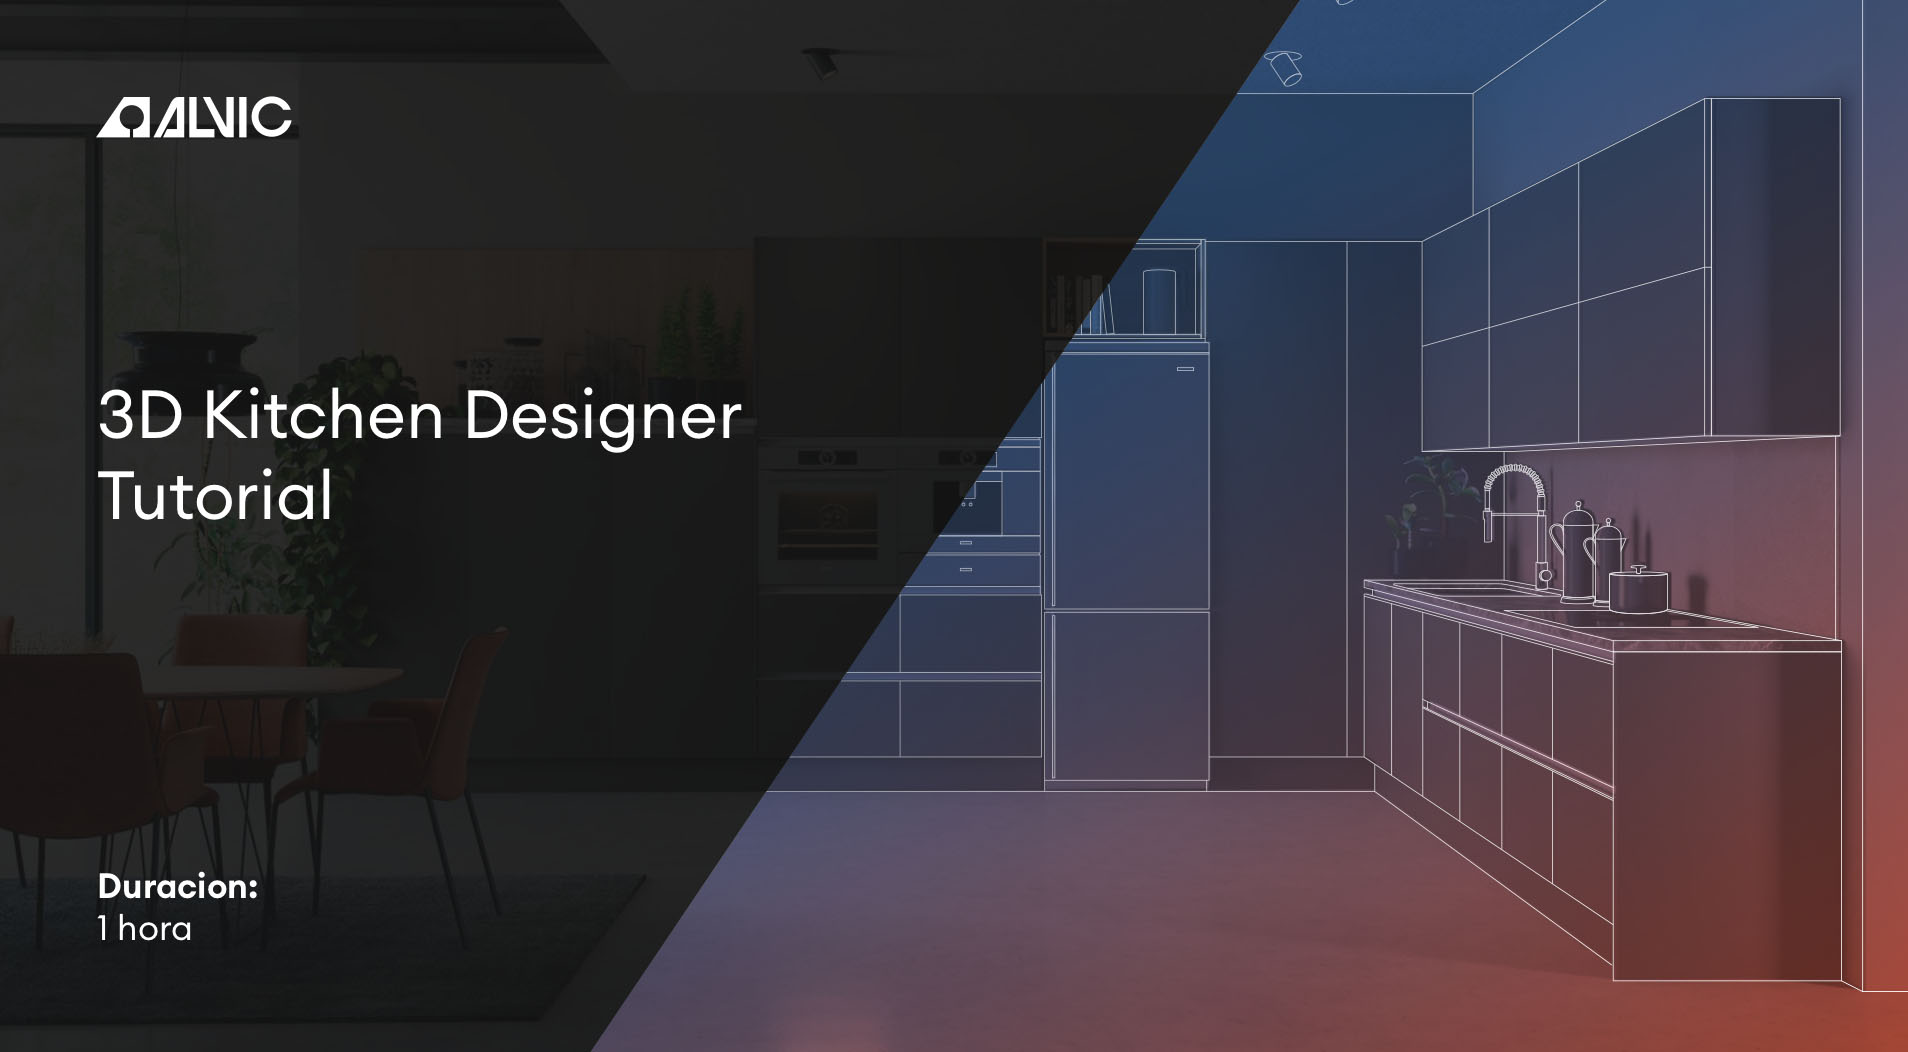
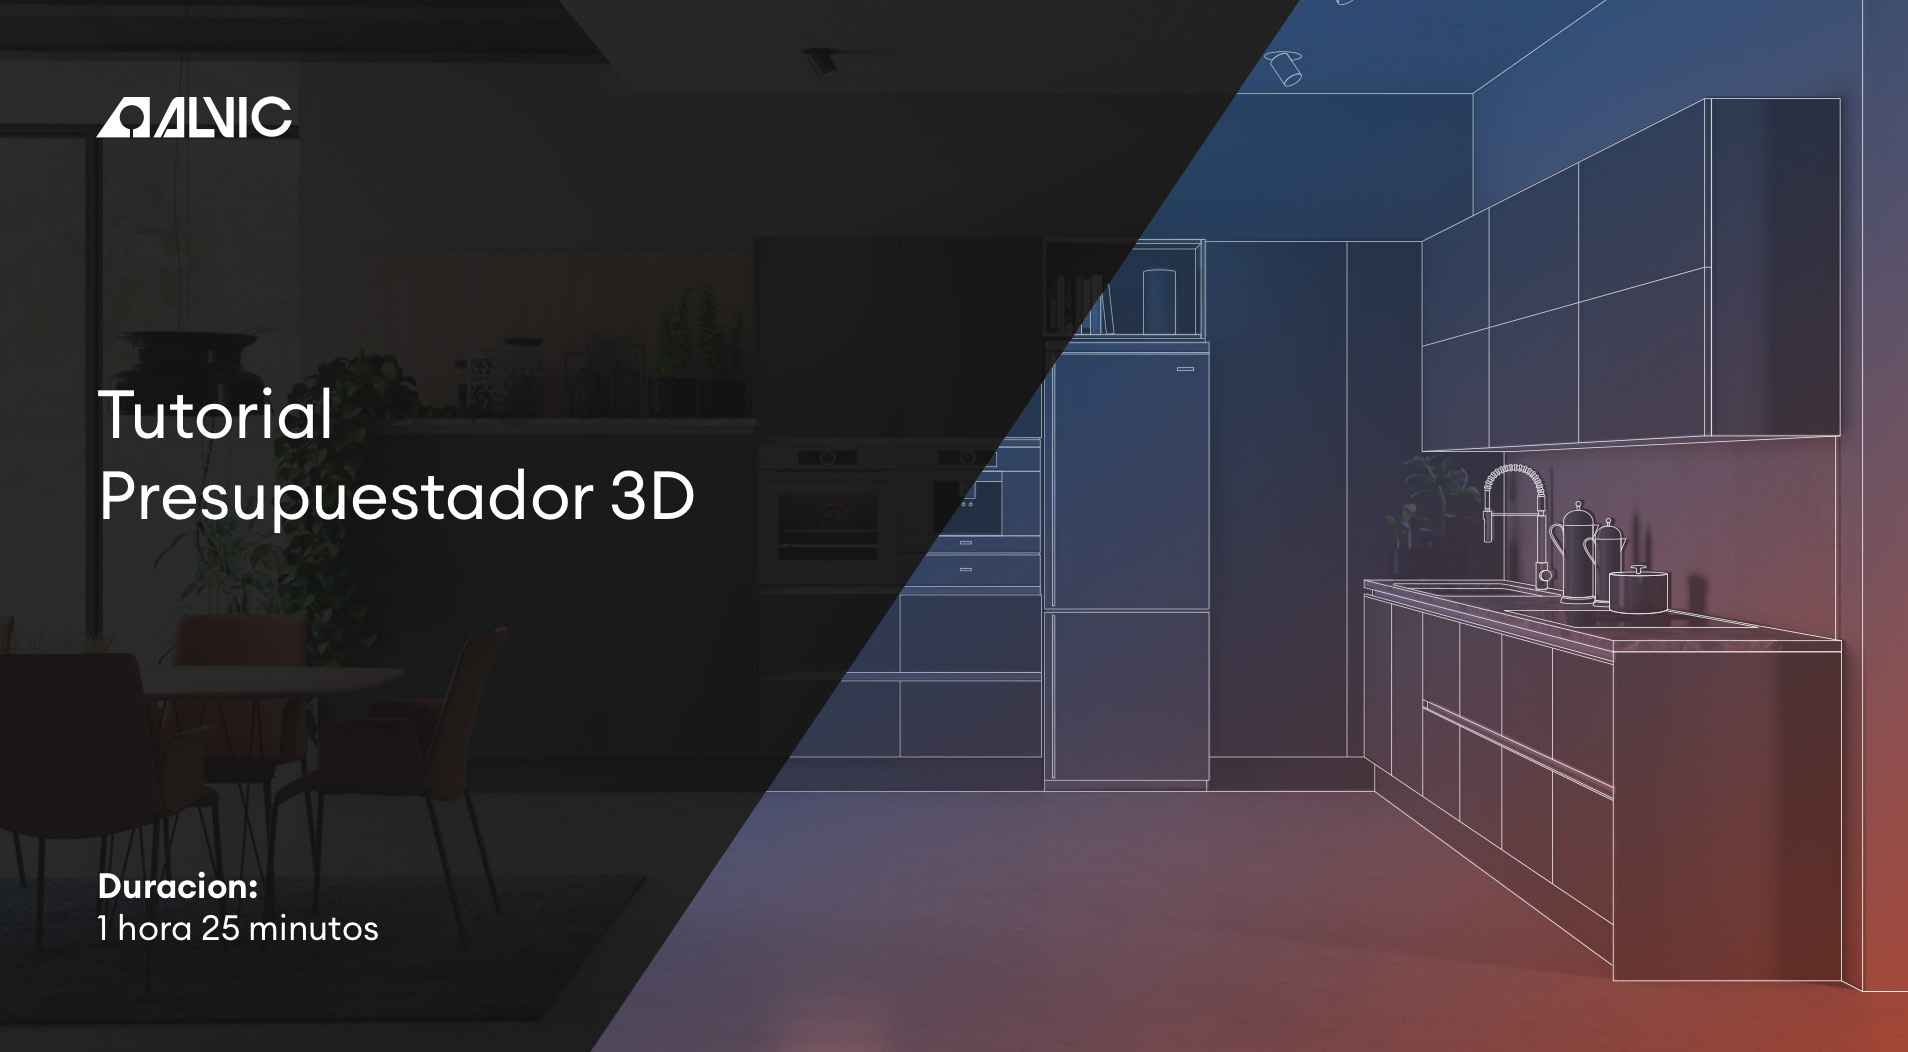
Added final video

Changed region(s): [[0.0309, 0.365, 0.402, 0.5171], [0.0928, 0.8517, 0.1855, 0.9125]]

diff --git a/video-tutorial.html b/video-tutorial.html
@@ -7,7 +7,7 @@
 		<link rel="stylesheet" href="stylesheets/video-tutorial.css" type="text/css" media="screen" />
 		<link rel="stylesheet" href="https://cdn.jsdelivr.net/npm/bootstrap-icons@1.10.2/font/bootstrap-icons.css">
 
-		<title>Tutorial Introduccion Alvic 3D Studio</title>
+		<title>Tutorial Presupuestador 3D</title>
 
 	</head>
 
@@ -16,8 +16,8 @@
 		<div class="container-fluid p-4">
 			<div class="row gx-5">
 				<div class="col-lg-9 col-main">
-					<h2>Tutorial Introduccion Alvic 3D Studio</h2>
-					<script src="https://fast.wistia.com/embed/medias/wckjeswefg.jsonp" async></script><script src="https://fast.wistia.com/assets/external/E-v1.js" async></script><div class="wistia_responsive_padding" style="padding:48.75% 0 0 0;position:relative;"><div class="wistia_responsive_wrapper" style="height:100%;left:0;position:absolute;top:0;width:100%;"><div class="wistia_embed wistia_async_wckjeswefg videoFoam=true" style="height:100%;position:relative;width:100%"><div class="wistia_swatch" style="height:100%;left:0;opacity:0;overflow:hidden;position:absolute;top:0;transition:opacity 200ms;width:100%;"><img src="https://fast.wistia.com/embed/medias/wckjeswefg/swatch" style="filter:blur(5px);height:100%;object-fit:contain;width:100%;" alt="" aria-hidden="true" onload="this.parentNode.style.opacity=1;" /></div></div></div></div>
+					<h2>Tutorial Presupuestador 3D</h2>
+					<script src="https://fast.wistia.com/embed/medias/xnx9k290pf.jsonp" async></script><script src="https://fast.wistia.com/assets/external/E-v1.js" async></script><div class="wistia_responsive_padding" style="padding:55.0% 0 0 0;position:relative;"><div class="wistia_responsive_wrapper" style="height:100%;left:0;position:absolute;top:0;width:100%;"><div class="wistia_embed wistia_async_xnx9k290pf videoFoam=true" style="height:100%;position:relative;width:100%"><div class="wistia_swatch" style="height:100%;left:0;opacity:0;overflow:hidden;position:absolute;top:0;transition:opacity 200ms;width:100%;"><img src="https://fast.wistia.com/embed/medias/xnx9k290pf/swatch" style="filter:blur(5px);height:100%;object-fit:contain;width:100%;" alt="" aria-hidden="true" onload="this.parentNode.style.opacity=1;" /></div></div></div></div>
 					<br><br>
 				</div>
 				<div class="col-lg-3 col-indice">
@@ -26,61 +26,88 @@
 						<table class="table table-hover indice">
 							<tbody>
 								<tr id="chapter-1">
-									<td><a href="#wistia_wckjeswefg?time=10"><span>Configuracion inicial</span><span>0:05 <i class="bi bi-play-circle"></i></span></a></td>
+									<td><a href="#wistia_xnx9k290pf?time=0"><span>Configuración inicial</span><span>00:00 <i class="bi bi-play-circle"></i></span></a></td>
 								</tr>
 								<tr id="chapter-2">
-									<td><a href="#wistia_wckjeswefg?time=10"><span>Dibujar paredes</span><span>0:05 <i class="bi bi-play-circle"></i></span></a></td>
+									<td><a href="#wistia_xnx9k290pf?time=416"><span>Dibujar paredes</span><span>06:56 <i class="bi bi-play-circle"></i></span></a></td>
 								</tr>
-								<tr id="chapter-3" href="#wistia_wckjeswefg?time=20">
-									<td><a href="#wistia_wckjeswefg?time=10"><span>Manipular la vista 3D</span><span>0:05 <i class="bi bi-play-circle"></i></span></a></td>
+								<tr id="chapter-3">
+									<td><a href="#wistia_xnx9k290pf?time=531"><span>Manipular la vista 3D</span><span>08:51 <i class="bi bi-play-circle"></i></span></a></td>
 								</tr>
-								<tr>
-									<td><a href="#wistia_wckjeswefg?time=10"><span>Vistazo de las herramientas</span><span>0:05 <i class="bi bi-play-circle"></i></span></a></td>
+								<tr id="chapter-4">
+									<td><a href="#wistia_xnx9k290pf?time=622"><span>Vistazo de las herramientas</span><span>10:22 <i class="bi bi-play-circle"></i></span></a></td>
 								</tr>
-								<tr>
-									<td><a href="#wistia_wckjeswefg?time=10"><span>Propiedades de las paredes</span><span>0:05 <i class="bi bi-play-circle"></i></span></a></td>
+								<tr id="chapter-5">
+									<td><a href="#wistia_xnx9k290pf?time=752"><span>Propiedades de las paredes</span><span>12:32 <i class="bi bi-play-circle"></i></span></a></td>
 								</tr>
-								<tr id="chapter-1">
-									<td><a href="#wistia_wckjeswefg?time=10"><span>Vista de planta</span><span>0:05 <i class="bi bi-play-circle"></i></span></a></td>
+								<tr id="chapter-6">
+									<td><a href="#wistia_xnx9k290pf?time=878"><span>Vista de planta</span><span>14:38 <i class="bi bi-play-circle"></i></span></a></td>
 								</tr>
-								<tr id="chapter-2">
-									<td><a href="#wistia_wckjeswefg?time=10"><span>Capturar pantalla</span><span>0:05 <i class="bi bi-play-circle"></i></span></a></td>
+								<tr id="chapter-7">
+									<td><a href="#wistia_xnx9k290pf?time=987"><span>Capturar pantalla</span><span>16:27 <i class="bi bi-play-circle"></i></span></a></td>
 								</tr>
-								<tr id="chapter-3" href="#wistia_wckjeswefg?time=20">
-									<td><a href="#wistia_wckjeswefg?time=10"><span>Vista de alzado</span><span>0:05 <i class="bi bi-play-circle"></i></span></a></td>
+								<tr id="chapter-8">
+									<td><a href="#wistia_xnx9k290pf?time=1055"><span>Vista de alzado</span><span>17:35 <i class="bi bi-play-circle"></i></span></a></td>
 								</tr>
-								<tr>
-									<td><a href="#wistia_wckjeswefg?time=10"><span>Parametros generales</span><span>0:05 <i class="bi bi-play-circle"></i></span></a></td>
+								<tr id="chapter-9">
+									<td><a href="#wistia_xnx9k290pf?time=1296"><span>Parámetros generales</span><span>21:36 <i class="bi bi-play-circle"></i></span></a></td>
 								</tr>
-								<tr>
-									<td><a href="#wistia_wckjeswefg?time=10"><span>Agregar muebles</span><span>0:05 <i class="bi bi-play-circle"></i></span></a></td>
+								<tr id="chapter-10">
+									<td><a href="#wistia_xnx9k290pf?time=1496"><span>Agregar muebles</span><span>24:56 <i class="bi bi-play-circle"></i></span></a></td>
 								</tr>
-								<tr id="chapter-1">
-									<td><a href="#wistia_wckjeswefg?time=10"><span>Editar muebles</span><span>0:05 <i class="bi bi-play-circle"></i></span></a></td>
+								<tr id="chapter-11">
+									<td><a href="#wistia_xnx9k290pf?time=1679"><span>Editar muebles</span><span>27:59 <i class="bi bi-play-circle"></i></span></a></td>
 								</tr>
-								<tr id="chapter-2">
-									<td><a href="#wistia_wckjeswefg?time=10"><span>Bloquear muebles</span><span>0:05 <i class="bi bi-play-circle"></i></span></a></td>
+								<tr id="chapter-12">
+									<td><a href="#wistia_xnx9k290pf?time=1822"><span>Bloquear muebles</span><span>30:22 <i class="bi bi-play-circle"></i></span></a></td>
 								</tr>
-								<tr id="chapter-3" href="#wistia_wckjeswefg?time=20">
-									<td><a href="#wistia_wckjeswefg?time=10"><span>Duplicar muebles</span><span>0:05 <i class="bi bi-play-circle"></i></span></a></td>
+								<tr id="chapter-13">
+									<td><a href="#wistia_xnx9k290pf?time=1944"><span>Duplicar muebles</span><span>32:24 <i class="bi bi-play-circle"></i></span></a></td>
 								</tr>
-								<tr>
-									<td><a href="#wistia_wckjeswefg?time=10"><span>Cambiar mano puertas</span><span>0:05 <i class="bi bi-play-circle"></i></span></a></td>
+								<tr id="chapter-14">
+									<td><a href="#wistia_xnx9k290pf?time=1995"><span>Cambiar mano puertas</span><span>33:15 <i class="bi bi-play-circle"></i></span></a></td>
 								</tr>
-								<tr>
-									<td><a href="#wistia_wckjeswefg?time=10"><span>Alinear muebles</span><span>0:05 <i class="bi bi-play-circle"></i></span></a></td>
+								<tr id="chapter-15">
+									<td><a href="#wistia_xnx9k290pf?time=2095"><span>Alinear muebles</span><span>34:55 <i class="bi bi-play-circle"></i></span></a></td>
 								</tr>
-								<tr id="chapter-1">
-									<td><a href="#wistia_wckjeswefg?time=10"><span>Electrodomesticos</span><span>0:05 <i class="bi bi-play-circle"></i></span></a></td>
+								<tr id="chapter-16">
+									<td><a href="#wistia_xnx9k290pf?time=2283"><span>Electrodomésticos</span><span>38:03 <i class="bi bi-play-circle"></i></span></a></td>
 								</tr>
-								<tr id="chapter-2">
-									<td><a href="#wistia_wckjeswefg?time=10"><span>Accesorios</span><span>0:05 <i class="bi bi-play-circle"></i></span></a></td>
+								<tr id="chapter-17">
+									<td><a href="#wistia_xnx9k290pf?time=2622"><span>Accesorios</span><span>43:42 <i class="bi bi-play-circle"></i></span></a></td>
 								</tr>
-								<tr id="chapter-3" href="#wistia_wckjeswefg?time=20">
-									<td><a href="#wistia_wckjeswefg?time=10"><span>Zocalos</span><span>0:05 <i class="bi bi-play-circle"></i></span></a></td>
+								<tr id="chapter-18">
+									<td><a href="#wistia_xnx9k290pf?time=2698"><span>Costados decorativos</span><span>44:58 <i class="bi bi-play-circle"></i></span></a></td>
 								</tr>
-								<tr>
-									<td><a href="#wistia_wckjeswefg?time=10"><span>Costados decorativos</span><span>0:05 <i class="bi bi-play-circle"></i></span></a></td>
+								<tr id="chapter-19">
+									<td><a href="#wistia_xnx9k290pf?time=3384"><span>Altillo / Sobre Frigo</span><span>56:24 <i class="bi bi-play-circle"></i></span></a></td>
+								</tr>
+								<tr id="chapter-20">
+									<td><a href="#wistia_xnx9k290pf?time=3800"><span>Regletas</span><span>1:03:20 <i class="bi bi-play-circle"></i></span></a></td>
+								</tr>
+								<tr id="chapter-21">
+									<td><a href="#wistia_xnx9k290pf?time=3857"><span>Encimeras</span><span>1:04:17 <i class="bi bi-play-circle"></i></span></a></td>
+								</tr>
+								<tr id="chapter-21">
+									<td><a href="#wistia_xnx9k290pf?time=4010"><span>Extender encimeras</span><span>1:06:50 <i class="bi bi-play-circle"></i></span></a></td>
+								</tr>
+								<tr id="chapter-23">
+									<td><a href="#wistia_xnx9k290pf?time=4121"><span>Islas</span><span>1:08:41 <i class="bi bi-play-circle"></i></span></a></td>
+								</tr>
+								<tr id="chapter-24">
+									<td><a href="#wistia_xnx9k290pf?time=4142"><span>Rotar muebles</span><span>1:09:02 <i class="bi bi-play-circle"></i></span></a></td>
+								</tr>
+								<tr id="chapter-25">
+									<td><a href="#wistia_xnx9k290pf?time=4322"><span>Fregaderos y hornos placa</span><span>1:12:02 <i class="bi bi-play-circle"></i></span></a></td>
+								</tr>
+								<tr id="chapter-26">
+									<td><a href="#wistia_xnx9k290pf?time=4387"><span>Altos</span><span>1:13:07 <i class="bi bi-play-circle"></i></span></a></td>
+								</tr>
+								<tr id="chapter-27">
+									<td><a href="#wistia_xnx9k290pf?time=4669"><span>Puertas y ventanas</span><span>1:17:49 <i class="bi bi-play-circle"></i></span></a></td>
+								</tr>
+								<tr id="chapter-28">
+									<td><a href="#wistia_xnx9k290pf?time=4731"><span>Zócalos</span><span>1:18:51 <i class="bi bi-play-circle"></i></span></a></td>
 								</tr>
 							</tbody>
 						</table>
